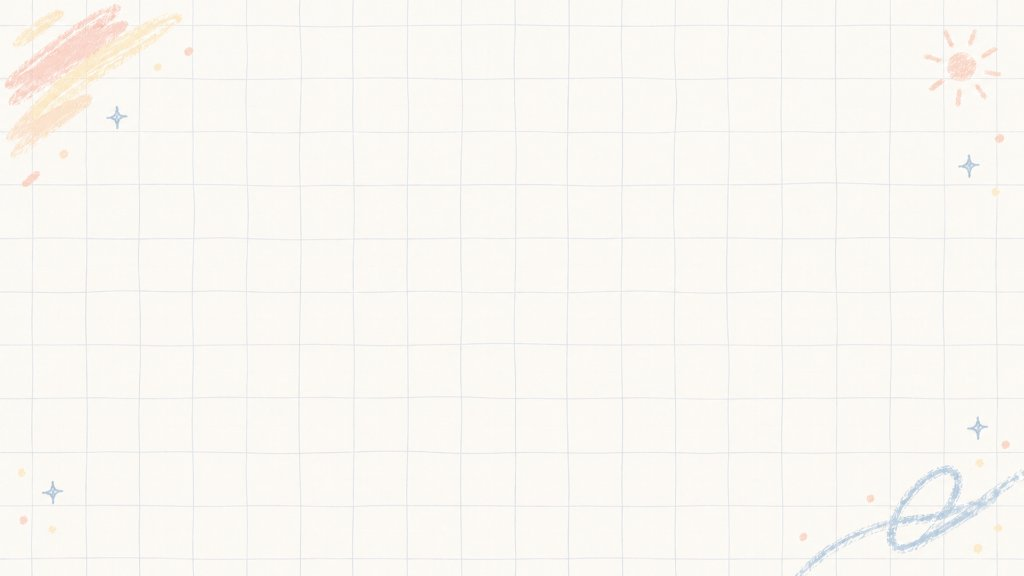
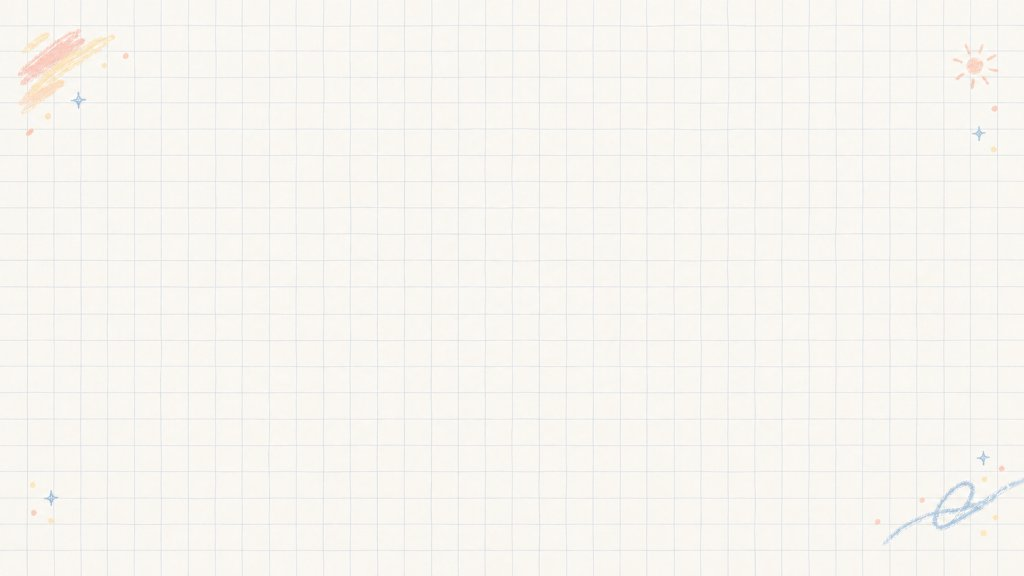
feat(about): update about background with scaled-down grid image

diff --git a/index.html b/index.html
@@ -15,7 +15,7 @@
   <link rel="preconnect" href="https://fonts.gstatic.com" crossorigin>
   <link href="https://fonts.googleapis.com/css2?family=Lora:ital,wght@0,400;0,500;0,600;1,400&family=Plus+Jakarta+Sans:wght@400;500;600;700&display=swap" rel="stylesheet">
 
-  <link rel="stylesheet" href="sketchbook.css?v=60">
+  <link rel="stylesheet" href="sketchbook.css?v=61">
 </head>
 <body>
   <div id="appRoot">
@@ -58,6 +58,6 @@
     </dialog>
   </div>
 
-  <script type="module" src="sketchbook.js?v=60"></script>
+  <script type="module" src="sketchbook.js?v=61"></script>
 </body>
 </html>

diff --git a/sketchbook.css b/sketchbook.css
@@ -3397,7 +3397,7 @@ body:has(.book-stage.is-loading) .crawler-video {
   z-index: 0;
   overflow: hidden;
   background-color: #fefdf9;
-  background-image: url('assets/about-bg.jpg');
+  background-image: url('assets/about-bg.jpg?v=2');
   background-position: center top;
   background-repeat: no-repeat;
   background-size: 100% 100%;
